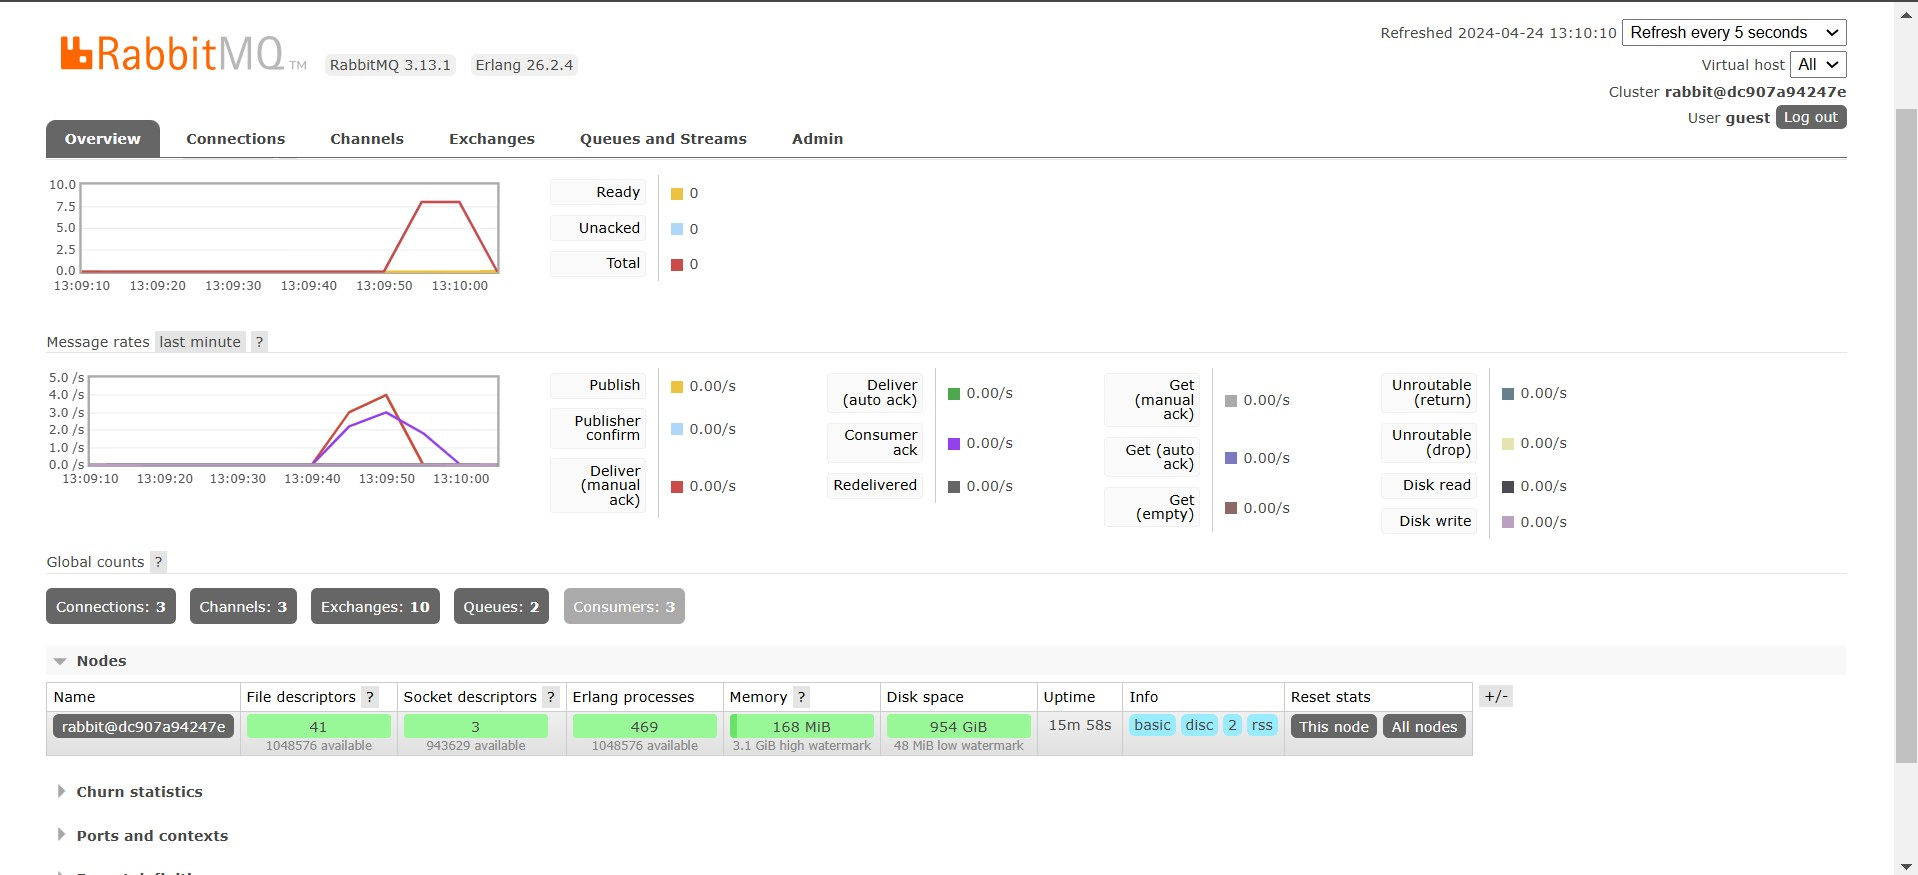
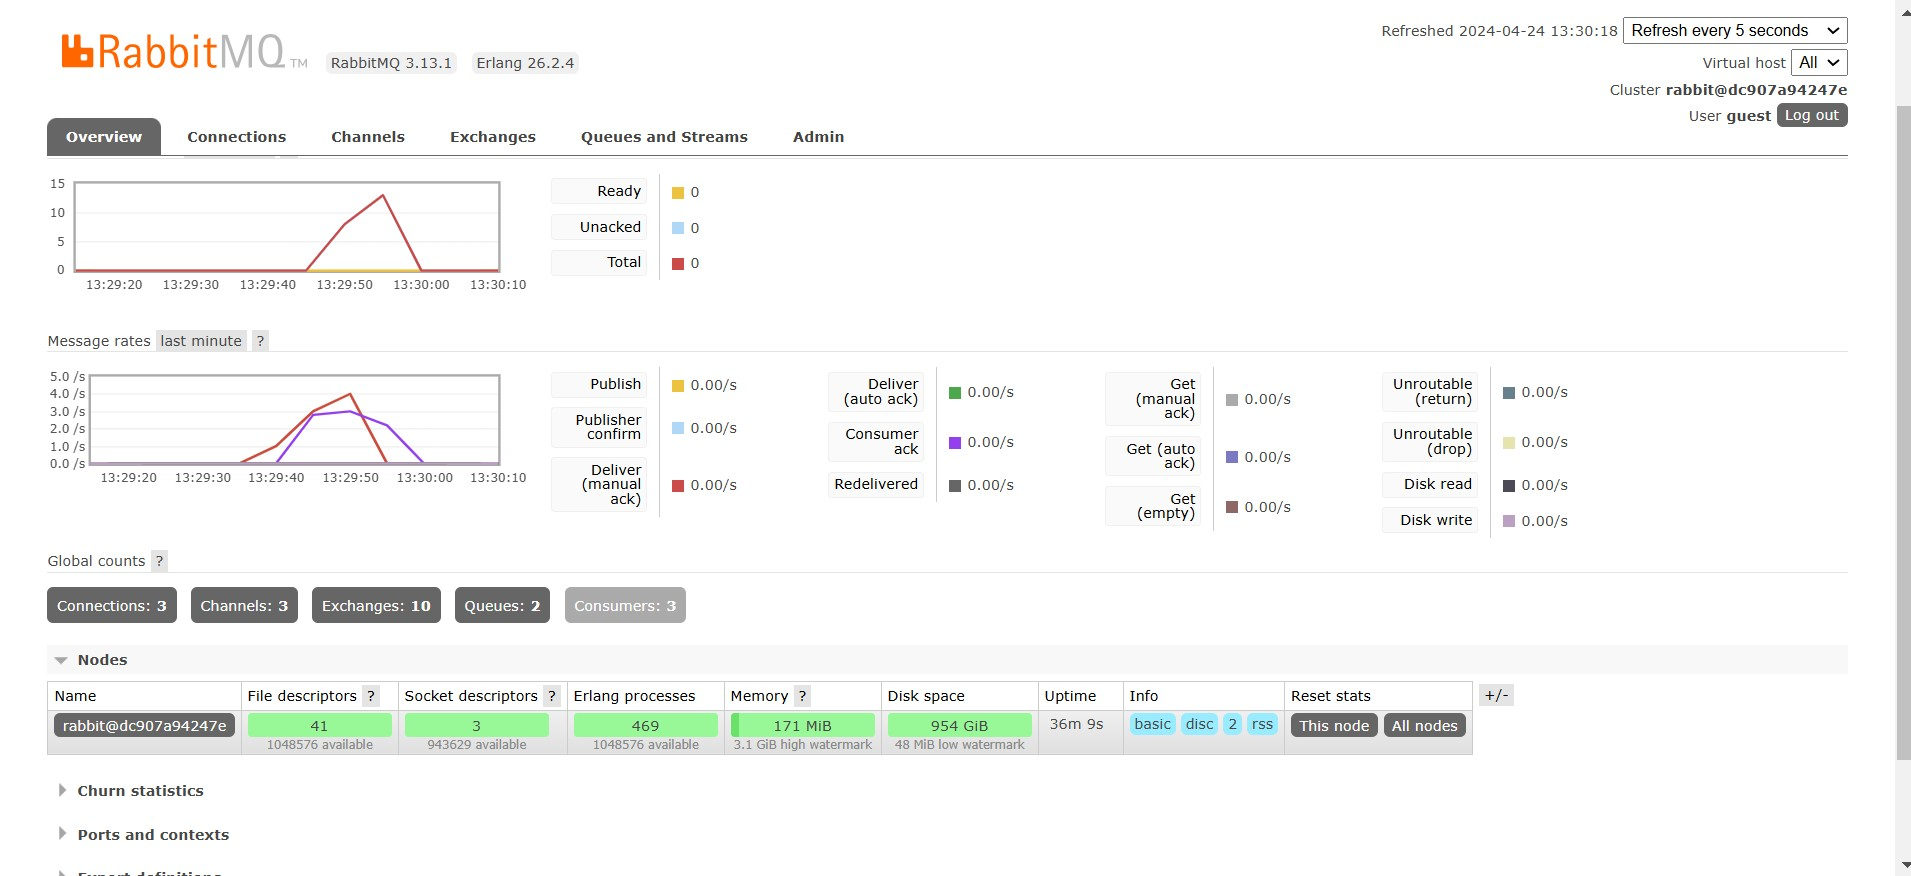
Reflection and Running at least three subscribers.

diff --git a/README.md b/README.md
@@ -11,3 +11,7 @@ AMQP (Advanced Message Queuing Protocol) adalah sebuah protokol standar dalam la
 3. Simulation slow subcsriber <br>
 ![alt text](/image/Simulation%20slow%20subcsriber.jpg) <br>
 Berdasarkan screenshot tersebut, terlihat bahwa jumlah queue atau queued message mencapai sekitar 20. Hal ini disebabkan oleh perubahan pada subscriber yang menyebabkan penundaan dalam penerimaan pesan, sehingga subscriber menjadi lebih lambat dalam mengambil pesan daripada kecepatan pengiriman pesan oleh publisher. Ketidakseimbangan ini menyebabkan penumpukan pesan dalam antrian (queue) karena subscriber tidak dapat mengimbangi laju pengiriman pesan oleh publisher. Akibatnya, saat perintah cargo run dijalankan beberapa kali secara cepat pada publisher, subscriber akan mengalami beban yang berlebihan karena harus mengambil dan memproses banyak pesan sekaligus, mengakibatkan peningkatan jumlah queue hingga mencapai 20 pesan dalam antrian.
+4. Running at least three subscribers
+![alt text](/image/running3subs-1.jpg)
+![alt text](/image/running3subs-2.jpg)
+Berdasarkan kedua screenshot tersebut, Penambahan subscriber membantu mengurangi beban tiap subscriber, sehingga message queue dapat berkurang dan spikenya lebih cepat menurun. Dengan beberapa subscriber yang berjalan, message dapat diproses secara paralel, di mana 3 subscriber yang aktif bekerja bersama-sama untuk memproses message. Distribusi beban kerja yang merata dan respons yang lebih cepat terhadap message yang masuk terjadi karena tugas dipisahkan di antara beberapa subscriber. Jumlah subscriber yang berjalan membantu menyeimbangkan kecepatan pengiriman dan penerimaan message antara publisher dan subscriber, yang pada akhirnya dapat mengurangi message queue.
